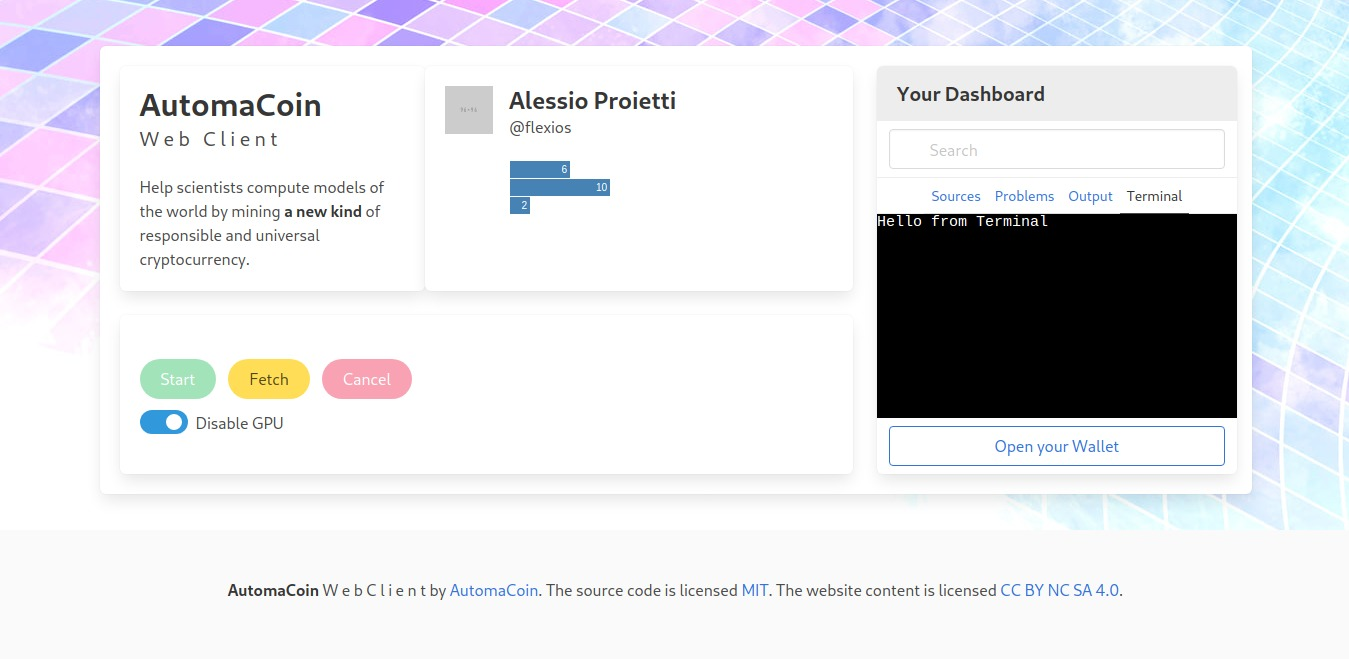
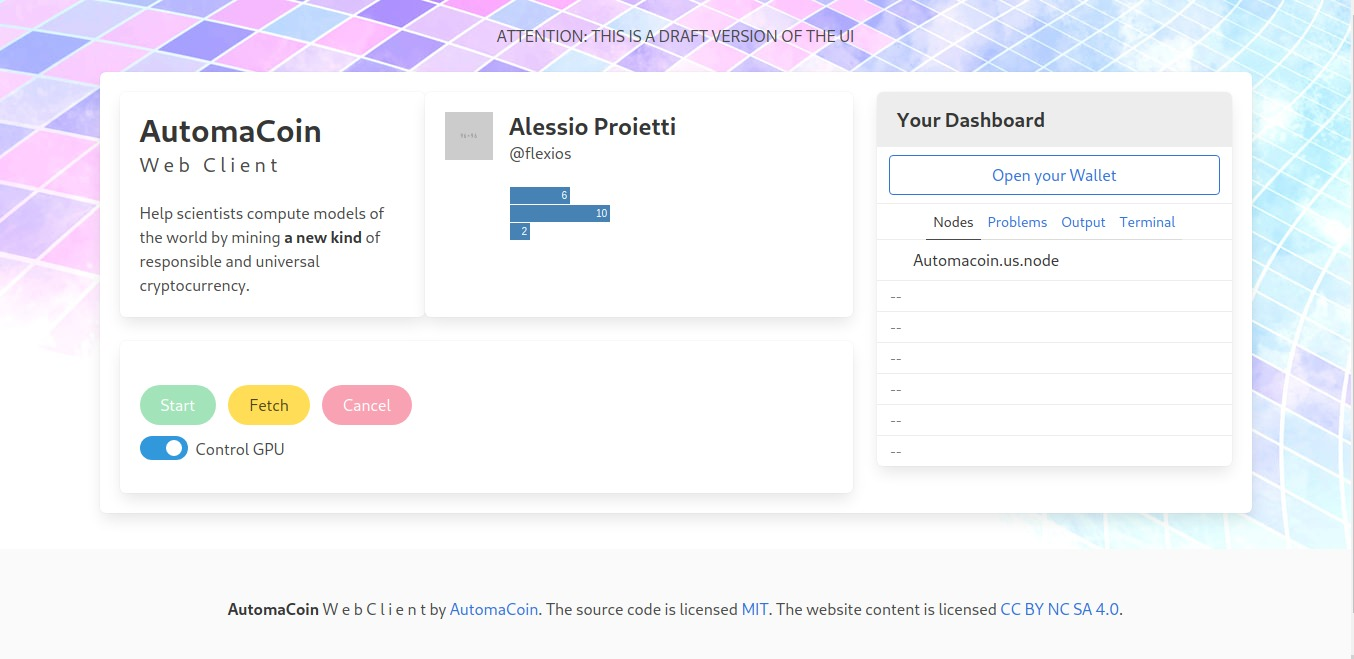
Dashboard acquired a "final" and customized form.

diff --git a/src/app/app.js b/src/app/app.js
@@ -29,19 +29,19 @@ export function ultimateQuestion() {
 
 export function dashboardComponent() {
     return {
-        tab: "sources",
+        tab: "nodes",
         title: "Your Dashboard",
         term: new Terminal({
-            cols: 40,
-            rows: 12
+            cols: 38,
+            rows: 10
         }),
         termOutput: new Terminal({
-            cols: 40,
-            rows: 12
+            cols: 38,
+            rows: 10
         }),
         termProblems: new Terminal({
-            cols: 40,
-            rows: 12
+            cols: 38,
+            rows: 10
         }),
 
         init: function () {
